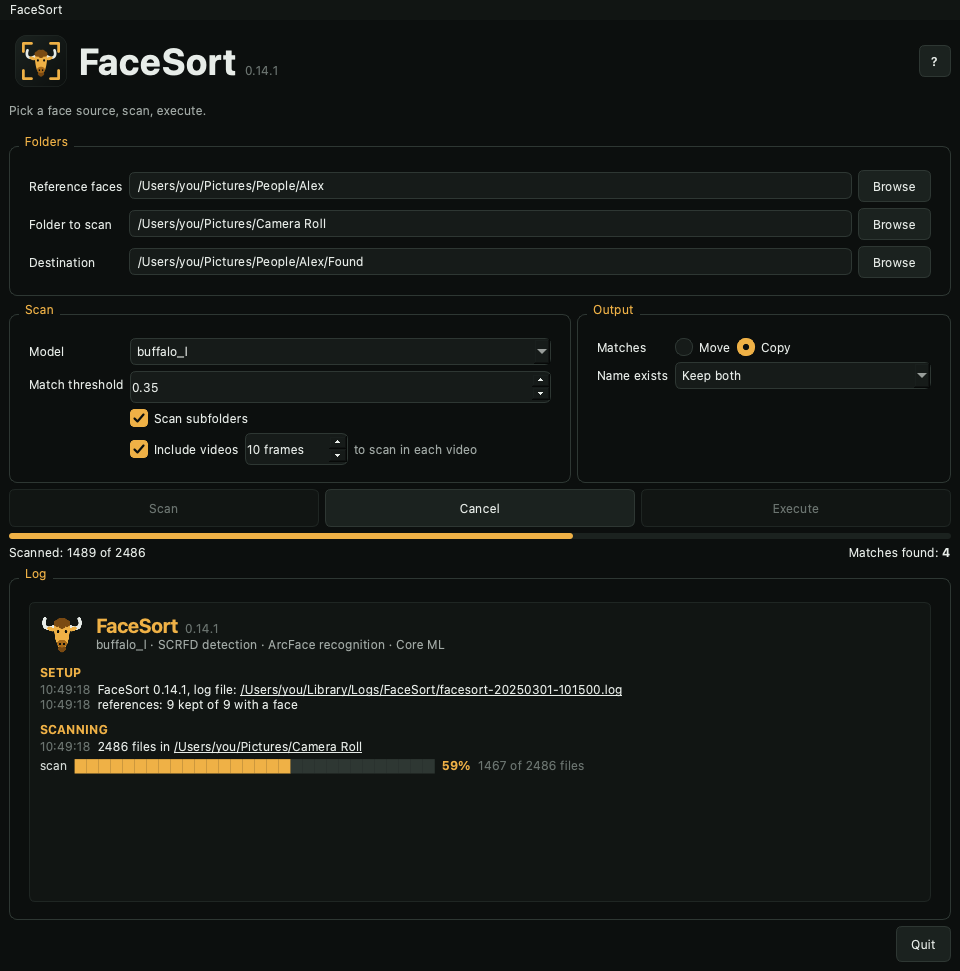
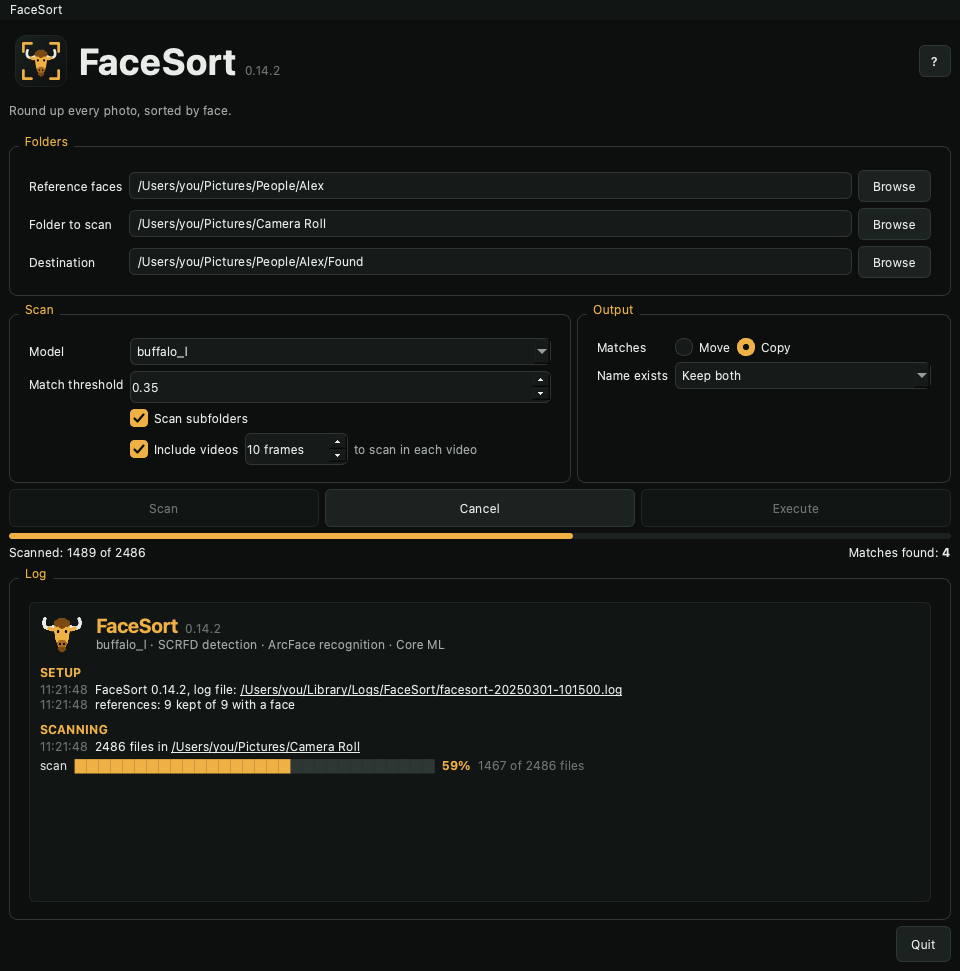
feat: slogan under the title: Round up every photo, sorted by face.

Changed region(s): [[0.0312, 0.6797, 0.375, 0.7724], [0.0, 0.0927, 0.2188, 0.1236]]

diff --git a/facesort/app.py b/facesort/app.py
@@ -179,7 +179,7 @@ class QtLogHandler(logging.Handler, QObject):
         self.record_emitted.emit(colorize(record), getattr(record, "section", False))
 
 
-INTRO = "Pick a face source, scan, execute."
+INTRO = "Round up every photo, sorted by face."
 READY = "Ready"
 AUTO_UPDATE_KEY = "check_updates_on_launch"
 

diff --git a/README.md b/README.md
@@ -18,6 +18,10 @@
 </p>
 
 <p align="center">
+  <strong>Round up every photo, sorted by face.</strong>
+</p>
+
+<p align="center">
   Take control of your photo library by face: point FaceSort at a few photos of someone, and it finds every photo and video of them in a folder of thousands, then copies or moves them where they belong.<br>
   Single-window macOS app running SCRFD detection and ArcFace recognition on the Apple Neural Engine through Core ML. Everything runs on your Mac; no photo leaves it.
 </p>
